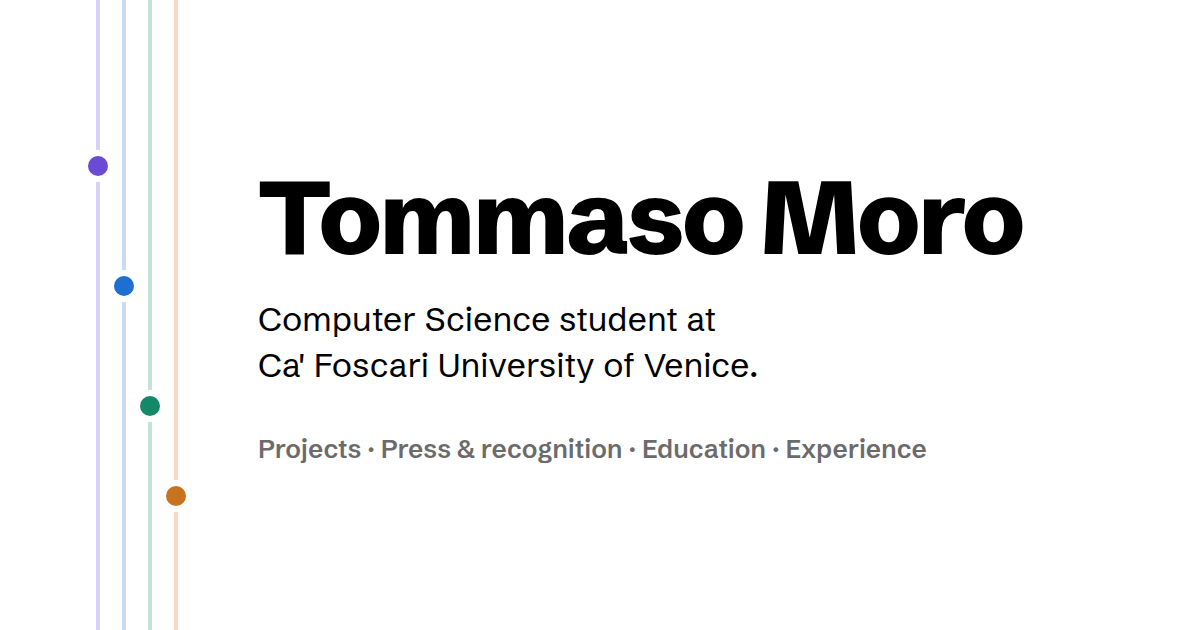
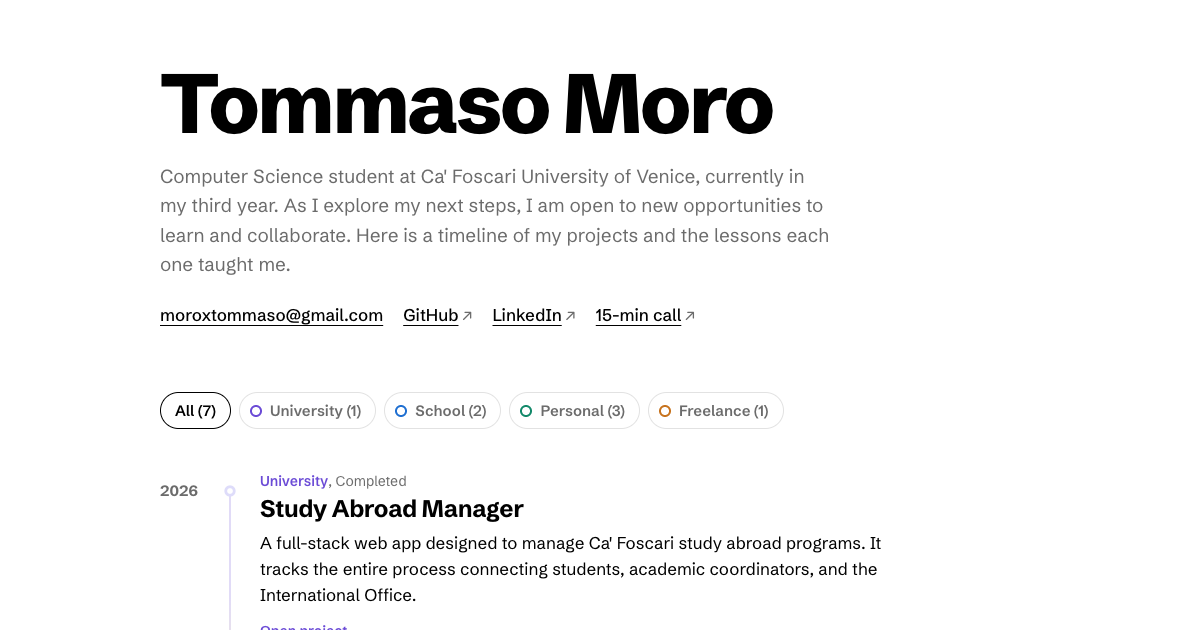
feat(site): use a screenshot of the page as the share image
The image is taken at every deploy, so it follows the projects, and the page is shared as "Tommaso Moro's portfolio".

diff --git a/CLAUDE.md b/CLAUDE.md
@@ -35,7 +35,8 @@ If something here is unclear or missing, ask me instead of guessing.
 - Allowed without asking: `marked` (Markdown → HTML), `js-yaml`.
 - Anything else: ask first and explain why. No frontend framework, no CSS framework,
   no bundler. Plain HTML, CSS and a small vanilla JS file.
-- Lighthouse may be run with `npx` for audits; it is not a dependency.
+- Lighthouse may be run with `npx` for audits; it is not a dependency. The share image is taken
+  with the Chrome already on the machine, which is not a dependency either.
 
 ### Keep it simple
 - It's a portfolio. Prefer the simplest thing that works; don't over-engineer.
@@ -62,6 +63,10 @@ Two separate commands:
   from a five-minute cache; if the commit cannot be resolved, they are read from `HEAD`. Only when a
   project has no `screenshots` list is `docs/screenshots/` listed through the GitHub contents API.
 - `npm run build` — offline. Reads **only** `data/snapshot/` and `content/`, writes `dist/`.
+
+A third, optional one runs after the build: `npm run og` takes the share image (section 6) with
+headless Chrome and saves it as `dist/og.png`. When it cannot run, `dist/` keeps the copy of
+`public/og.png`, the last image saved in the repo.
 
 ### Resilience rules (important)
 - If fetching one repo fails (network, 404, rate limit, GitHub down), keep that project's
@@ -192,17 +197,18 @@ portfolio/
 ├── src/
 │   ├── fetch.mjs
 │   ├── build.mjs
+│   ├── og.mjs                 # screenshot of the built page → dist/og.png
 │   ├── lib/                   # readme parser, yml validation, rendering helpers
 │   ├── templates/             # HTML template functions (template literals are fine)
 │   ├── styles.css
 │   └── main.js                # filters + small enhancements only
-├── public/                    # favicon, self-hosted fonts, og image
+├── public/                    # favicon, self-hosted fonts, spare og image
 ├── test/                      # node:test
 ├── dist/                      # gitignored
 └── .github/workflows/build-deploy.yml
 ```
 
-Node 20+, ES modules, `node:test` for tests. Scripts: `fetch`, `build`, `dev` (build + serve
+Node 20+, ES modules, `node:test` for tests. Scripts: `fetch`, `build`, `og`, `dev` (build + serve
 `dist/` locally with watch), `test`.
 
 ---
@@ -304,7 +310,10 @@ gradients other than the blend on the line.
 - On iPhone the zone under the status bar always has the page colour, so the page is never seen
   through it (Safari fills it from an unpainted box fixed to the top of the window).
 - No cookies, no analytics, no third-party requests at all.
-- `<title>`, meta description, Open Graph tags + an OG image, emoji or simple favicon.
+- `<title>` and share title "Tommaso Moro's portfolio", meta description, Open Graph tags,
+  emoji or simple favicon.
+- The share image (`og.png`, 1200×630) is a screenshot of the top of the page as it opens on a
+  desktop, taken again at every deploy so it follows the projects.
 - Lighthouse ≥ 95 in every category.
 
 ---
@@ -380,15 +389,18 @@ other_experience:
 
 ## 8. Deployment (GitHub Actions → GitHub Pages)
 
-The site is served at `https://tommasomoro8.github.io/` (this repo will be renamed to
-`tommasomoro8.github.io`). All links in the page are relative, so it also works under a sub-path.
+The site is served at `https://tommasomoro8.github.io/portfolio/`, the `url` in
+`content/profile.yml`, which the canonical link and the share tags are built from.
+`https://tommasomoro8.github.io/` is a page in the repo `tommasomoro8.github.io` that redirects
+to it. All links in the page are relative, so it would also work at the root (this repo renamed
+to `tommasomoro8.github.io`).
 
 `.github/workflows/build-deploy.yml`:
 - Triggers: push to `main`, `workflow_dispatch`, daily `schedule`.
 - Steps: checkout → setup Node 24 with npm cache → `npm ci` → `npm run fetch`
   (`continue-on-error: true`) → if `data/snapshot/` changed, commit it as
   `github-actions[bot]` with message `chore(data): refresh project snapshot` and push →
-  `npm test` → `npm run build` → upload `dist/` and deploy it with the official GitHub Pages
+  `npm test` → `npm run build` → `npm run og` (`continue-on-error: true`) → upload `dist/` and deploy it with the official GitHub Pages
   actions.
 - No secrets: the workflow's `GITHUB_TOKEN` is used for fetching.
 - Least-privilege `permissions:` per job (`contents: write` only because of the snapshot commit;

diff --git a/README.md b/README.md
@@ -31,6 +31,7 @@ and trims trailing blank lines. Run it once after cloning.
 | `npm run fetch` | Download every project in `portfolio.config.yml` into `data/snapshot/` (online) |
 | `npm run build` | Build the site into `dist/` from `data/snapshot/` and `content/` (offline)      |
 | `npm run dev`   | Build, serve `dist/` at <http://localhost:8080> and rebuild on changes          |
+| `npm run og`    | Take the share image, a screenshot of the built page, as `dist/og.png`          |
 | `npm test`      | Run the tests                                                                   |
 
 ## How it works
@@ -48,6 +49,9 @@ portfolio.config.yml ──► fetch ──► data/snapshot/ (committed) ──
 - `npm run build` never goes online, so the site can always be rebuilt from the last good
   snapshot. The page makes no third-party requests: fonts are self-hosted and images are served
   from the site itself.
+- `npm run og` takes the image shown when the link is shared: a screenshot of the top of the
+  built page, so it follows the projects. It runs at every deploy and needs Chrome (`CHROME_BIN`
+  names another browser). When it can't run, the last image saved in `public/og.png` is used.
 - Warnings name the project and the problem (a README without the summary block, a missing
   section, a `TODO` left in the content, an image that wasn't found), so both commands are worth
   a glance after editing a project.
@@ -59,7 +63,7 @@ portfolio.config.yml ──► fetch ──► data/snapshot/ (committed) ──
 | `content/local/<slug>` | Projects without a public repository (same files as a repo)    |
 | `data/snapshot/`       | Last good copy of every project and its images                 |
 | `src/`                 | Fetch and build scripts, templates, styles and the page script |
-| `public/`              | Fonts, favicon and share image, copied as they are             |
+| `public/`              | Fonts, favicon and the spare share image, copied as they are   |
 
 ## Adding a project
 
@@ -143,9 +147,9 @@ portfolio.config.yml ──► fetch ──► data/snapshot/ (committed) ──
 
 `.github/workflows/build-deploy.yml` runs on every push to `main`, every day at 05:17 UTC and on
 demand (Actions → Build and deploy → Run workflow). It fetches the projects, commits
-`data/snapshot/` if it changed (as `github-actions[bot]`), runs the tests, builds the site and
-deploys `dist/` to GitHub Pages. If fetching fails, the last committed snapshot is deployed. No
-secrets are needed.
+`data/snapshot/` if it changed (as `github-actions[bot]`), runs the tests, builds the site, takes
+the share image and deploys `dist/` to GitHub Pages. If fetching fails, the last committed
+snapshot is deployed. No secrets are needed.
 
 One-time setup on GitHub:
 
